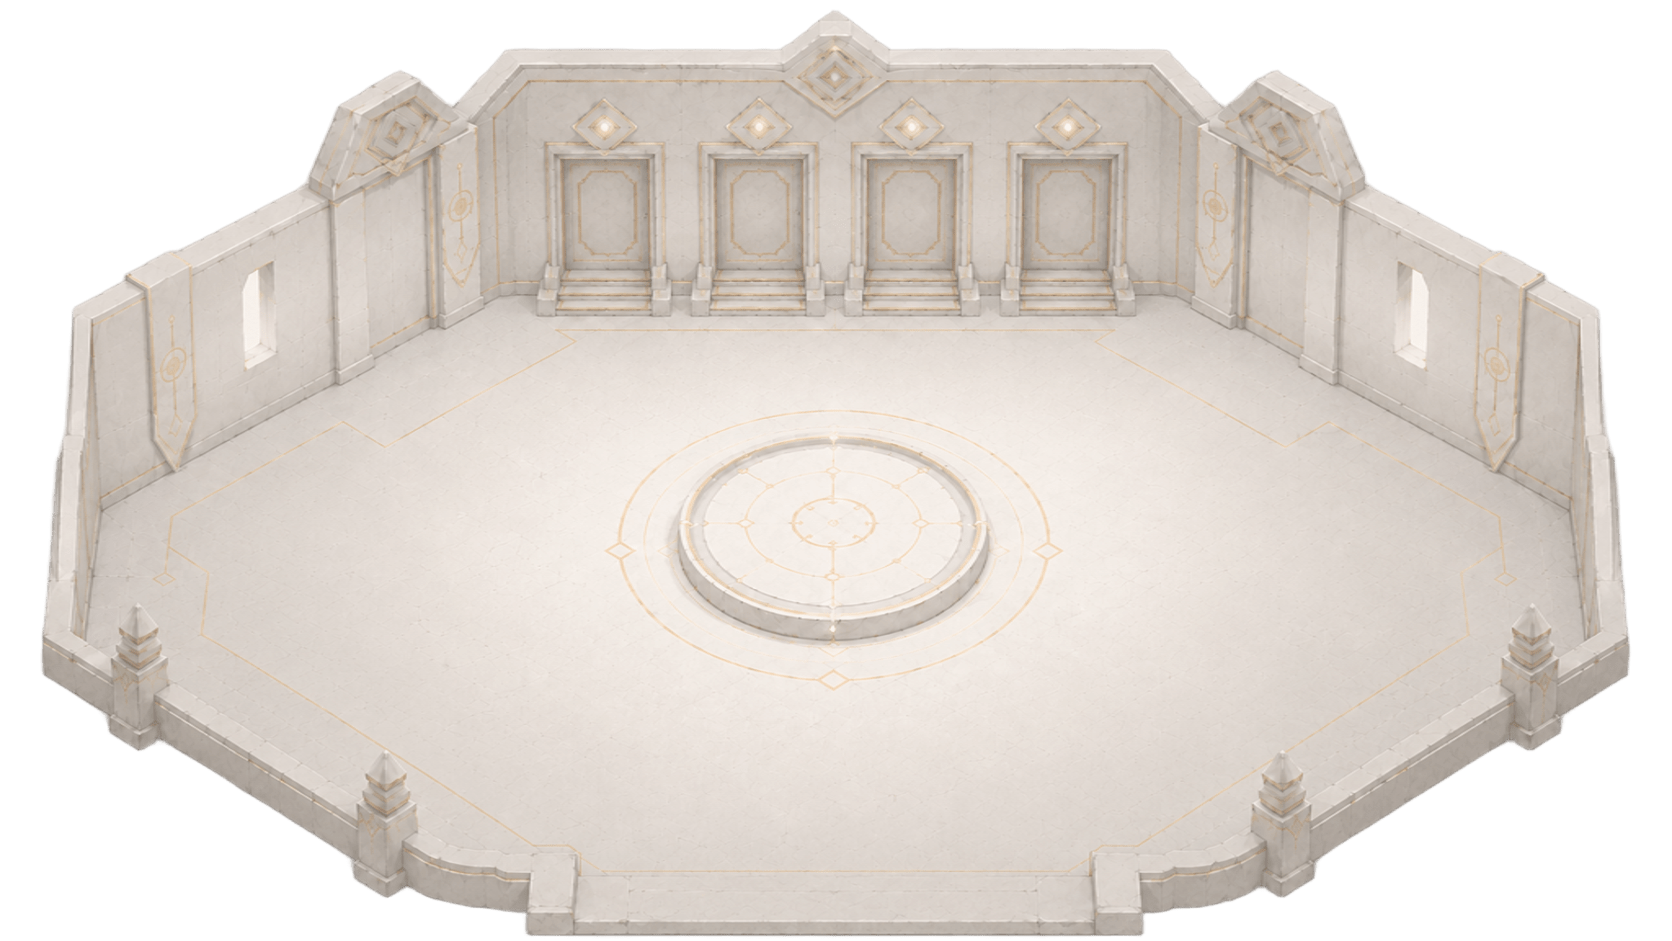
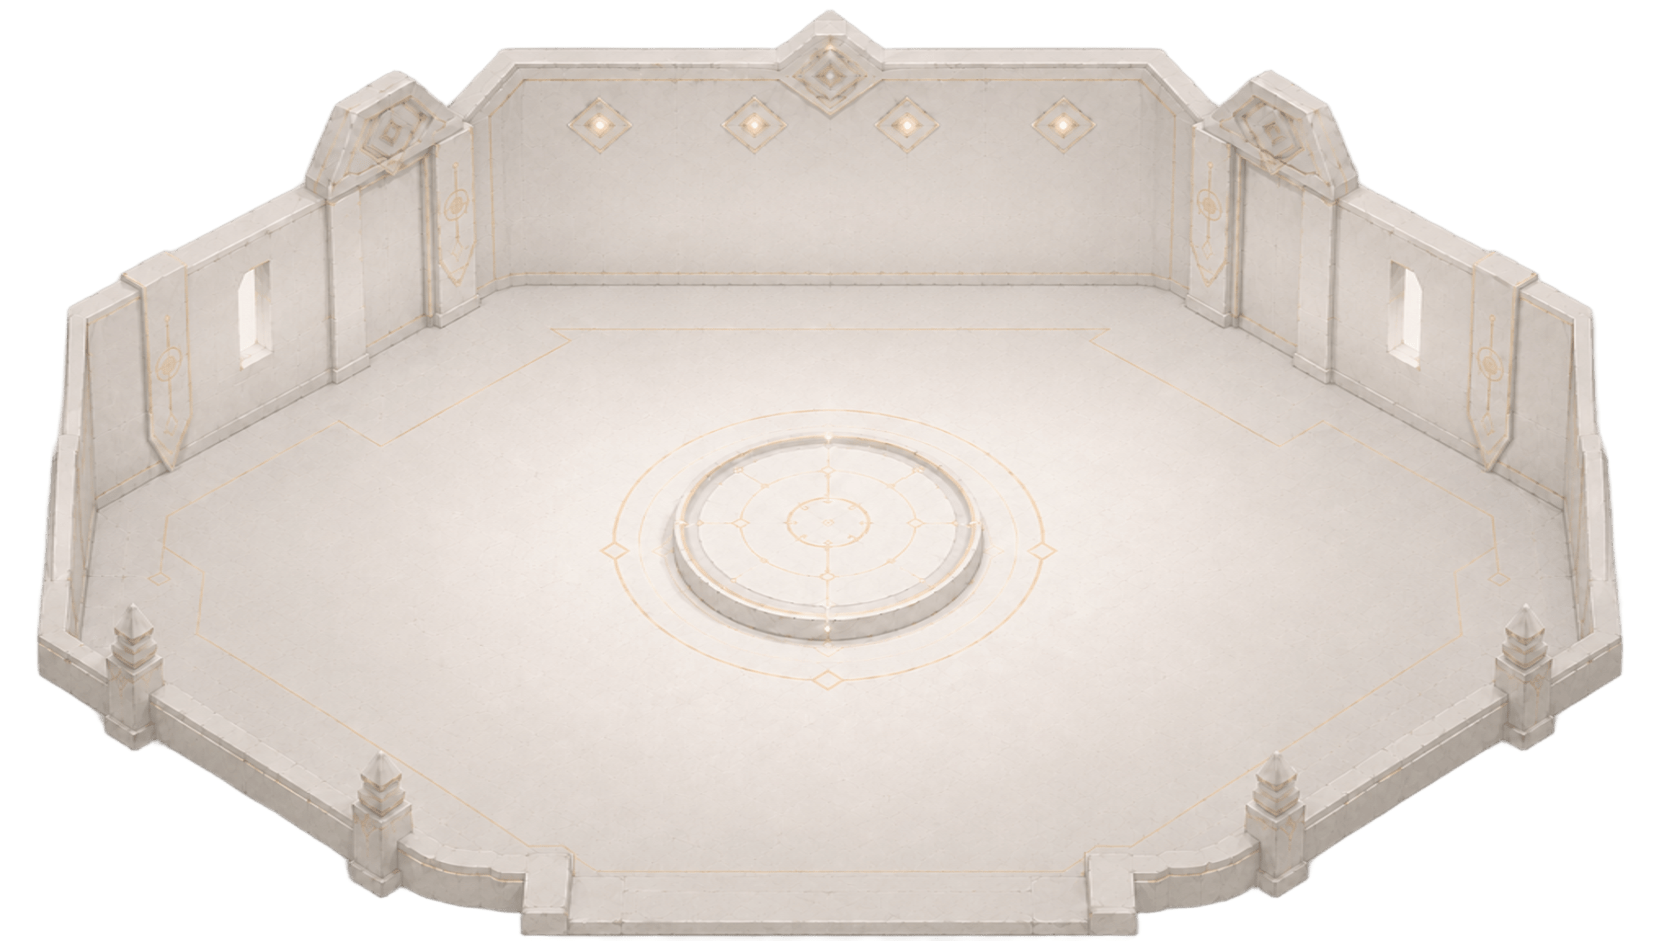
feat: add doors to scene

diff --git a/src/app/[locale]/game/entities/Doors.ts b/src/app/[locale]/game/entities/Doors.ts
@@ -1,0 +1,43 @@
+import Phaser from "phaser";
+import { DEPTH_INDEX, SPRITE_NAMES } from "../types/consts";
+
+const MIN_DOOR_COUNT = 2;
+const MAX_DOOR_COUNT = 4;
+
+const DOOR_ROW_BOTTOM_Y_RATIO = 0.36;
+const DOOR_SCALE = 1.08;
+const DOOR_GAP = 18;
+
+export class Doors extends Phaser.GameObjects.Container {
+  public doorCount = 0;
+
+  constructor(scene: Phaser.Scene) {
+    const { width, height } = scene.scale;
+
+    super(scene, width / 2, height * DOOR_ROW_BOTTOM_Y_RATIO);
+
+    scene.add.existing(this);
+
+    this.setDepth(DEPTH_INDEX[SPRITE_NAMES.door]);
+    this.regenerate();
+  }
+
+  public regenerate() {
+    this.removeAll(true);
+
+    this.doorCount = Phaser.Math.Between(MIN_DOOR_COUNT, MAX_DOOR_COUNT);
+
+    const doorWidth = this.scene.textures.get(SPRITE_NAMES.door).getSourceImage().width * DOOR_SCALE;
+    const step = doorWidth + DOOR_GAP;
+
+    for (let index = 0; index < this.doorCount; index += 1) {
+      const offsetFromCenter = index - (this.doorCount - 1) / 2;
+      const door = this.scene.add.image(offsetFromCenter * step, 0, SPRITE_NAMES.door);
+
+      door.setOrigin(0.5, 1);
+      door.setScale(DOOR_SCALE);
+
+      this.add(door);
+    }
+  }
+}

diff --git a/src/app/[locale]/game/types/consts.ts b/src/app/[locale]/game/types/consts.ts
@@ -5,6 +5,7 @@ export const SCENE_NAMES = {
 
 export const SPRITE_NAMES = {
   room: "room",
+  door: "door",
   hero: "hero",
   pedestal: "pedestal",
   flame: {
@@ -14,12 +15,14 @@ export const SPRITE_NAMES = {
 
 export const DEPTH_INDEX = {
   [SPRITE_NAMES.room]: 1,
-  [SPRITE_NAMES.pedestal]: 2,
-  [SPRITE_NAMES.hero]: 3,
+  [SPRITE_NAMES.door]: 2,
+  [SPRITE_NAMES.pedestal]: 3,
+  [SPRITE_NAMES.hero]: 4,
 } as const;
 
 export const ASSETS_PATH = {
   [SPRITE_NAMES.room]: "/assets/game/scene.png",
+  [SPRITE_NAMES.door]: "/assets/game/door.png",
   [SPRITE_NAMES.pedestal]: "/assets/game/pedestal.png",
   [SPRITE_NAMES.hero]: "/assets/game/hero-sprite.png",
   [SPRITE_NAMES.flame.base]: "/assets/game/flame/red-flame-sprite.png",

diff --git a/src/app/[locale]/game/scenes/GameScene.ts b/src/app/[locale]/game/scenes/GameScene.ts
@@ -4,11 +4,13 @@ import { useRunStore } from "@/game";
 import { Room } from "../entities/Room";
 import { Hero } from "../entities/Hero";
 import { Pedestal } from "../entities/Pedestal";
+import { Doors } from "../entities/Doors";
 
 export class GameScene extends Phaser.Scene {
   private hero?: Hero;
   private pedestal?: Pedestal;
   private room?: Room;
+  private doors?: Doors;
 
   public locale: "ru" | "en";
 
@@ -20,6 +22,7 @@ export class GameScene extends Phaser.Scene {
 
   create() {
     this.room = new Room(this);
+    this.doors = new Doors(this);
     this.pedestal = new Pedestal(this);
     this.hero = new Hero(this);
 

diff --git a/src/app/[locale]/game/scenes/PreloadScene.ts b/src/app/[locale]/game/scenes/PreloadScene.ts
@@ -10,6 +10,7 @@ export class PreloadScene extends Phaser.Scene {
 
   preload() {
     this.load.image(SPRITE_NAMES.room, ASSETS_PATH[SPRITE_NAMES.room]);
+    this.load.image(SPRITE_NAMES.door, ASSETS_PATH[SPRITE_NAMES.door]);
     this.load.image(SPRITE_NAMES.pedestal, ASSETS_PATH[SPRITE_NAMES.pedestal]);
 
     this.load.spritesheet(SPRITE_NAMES.hero, ASSETS_PATH[SPRITE_NAMES.hero], { frameHeight: 682, frameWidth: 682 });

diff --git a/docs/MVP_SCOPE.md b/docs/MVP_SCOPE.md
@@ -337,7 +337,7 @@ start room + 5–9 rooms + final interview
 
 После завершения комнаты игрок выбирает следующий путь через знаки над дверями.
 
-Для MVP достаточно 2 доступных дверей после каждой комнаты.
+В каждой комнате случайно создаются от 2 до 4 доступных дверей. Группа дверей всегда центрируется относительно сцены, а расстояние между дверями остаётся равномерным.
 
 Важно: двери визуально не открываются. Основной интерактивный элемент — знак над дверью.
 
@@ -367,7 +367,6 @@ start room + 5–9 rooms + final interview
 
 Необязательно для MVP:
 
-- 3–4 двери;
 - сложная карта как в Slay the Spire;
 - визуальная схема всего пути;
 - ключи;
